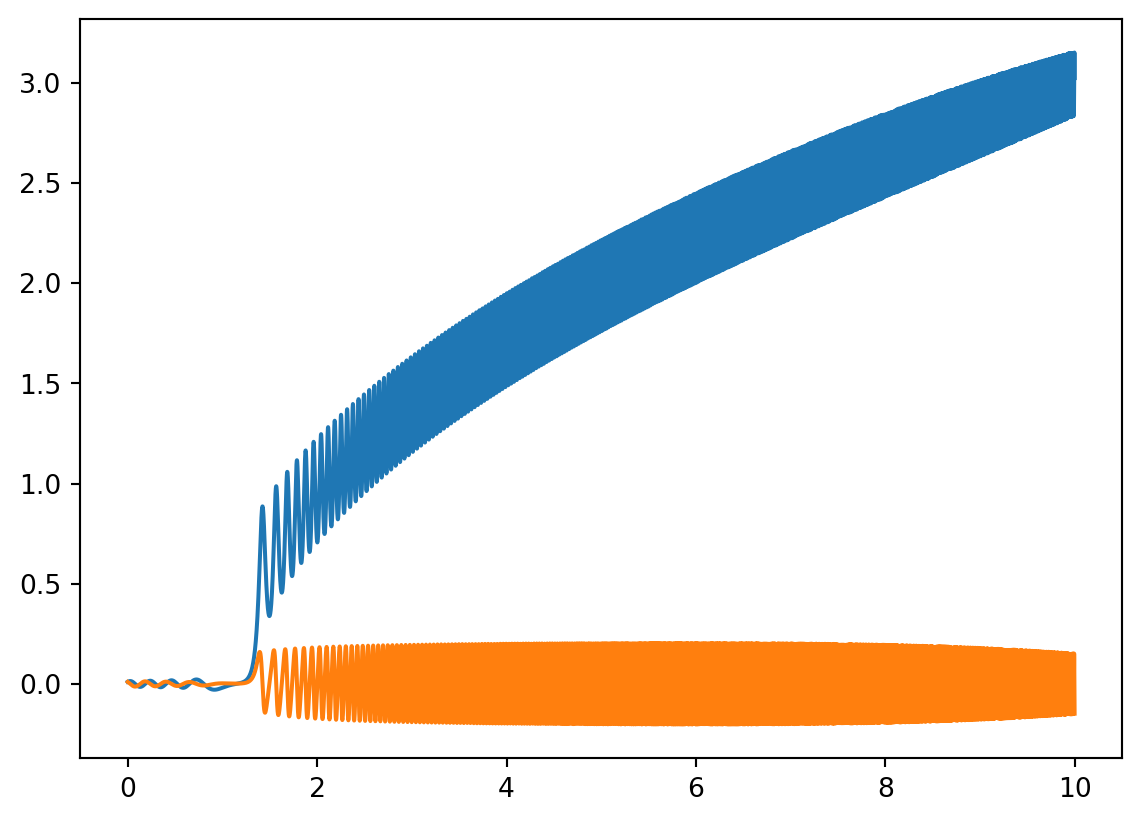
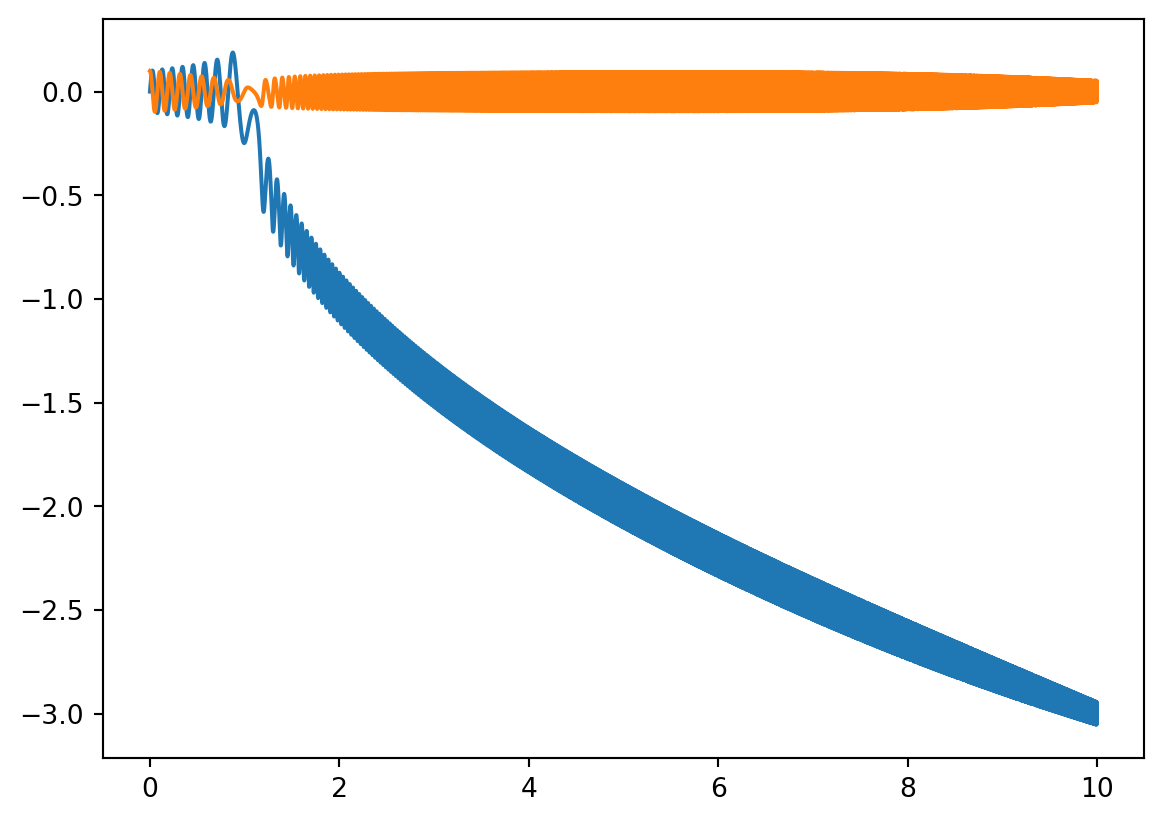
Final Commit for SRIP 2024 before report

diff --git a/BifurcationDiagram/bifurcation.html b/BifurcationDiagram/bifurcation.html
@@ -135,14 +135,14 @@ y&nbsp;̇= x[- ∆ + p - K(x^2 + y^2)]
 \]</span></p>
 <section id="importing-list-of-libraries-in-python" class="level2">
 <h2 class="anchored" data-anchor-id="importing-list-of-libraries-in-python">Importing list of Libraries in Python</h2>
-<div id="ca28dd96" class="cell" data-execution_count="1">
+<div id="628991cc" class="cell" data-execution_count="1">
 <div class="sourceCode cell-code" id="cb1"><pre class="sourceCode python code-with-copy"><code class="sourceCode python"><span id="cb1-1"><a href="#cb1-1" aria-hidden="true" tabindex="-1"></a><span class="im">import</span> numpy <span class="im">as</span> np</span>
 <span id="cb1-2"><a href="#cb1-2" aria-hidden="true" tabindex="-1"></a><span class="im">import</span> matplotlib.pyplot <span class="im">as</span> plt</span></code><button title="Copy to Clipboard" class="code-copy-button"><i class="bi"></i></button></pre></div>
 </div>
 </section>
 <section id="defining-the-start-point" class="level2">
 <h2 class="anchored" data-anchor-id="defining-the-start-point">Defining the start point</h2>
-<div id="f28871ee" class="cell" data-execution_count="2">
+<div id="2aaf8a43" class="cell" data-execution_count="2">
 <div class="sourceCode cell-code" id="cb2"><pre class="sourceCode python code-with-copy"><code class="sourceCode python"><span id="cb2-1"><a href="#cb2-1" aria-hidden="true" tabindex="-1"></a>d <span class="op">=</span> <span class="fl">0.1</span></span>
 <span id="cb2-2"><a href="#cb2-2" aria-hidden="true" tabindex="-1"></a>k <span class="op">=</span> d</span>
 <span id="cb2-3"><a href="#cb2-3" aria-hidden="true" tabindex="-1"></a>p <span class="op">=</span> <span class="fl">1.1</span><span class="op">*</span>d</span>
@@ -163,7 +163,7 @@ y&nbsp;̇= x[- ∆ + p - K(x^2 + y^2)]
 </section>
 <section id="evolution-of-the-system" class="level2">
 <h2 class="anchored" data-anchor-id="evolution-of-the-system">Evolution of the system</h2>
-<div id="2a899710" class="cell" data-execution_count="3">
+<div id="9284a795" class="cell" data-execution_count="3">
 <div class="sourceCode cell-code" id="cb3"><pre class="sourceCode python code-with-copy"><code class="sourceCode python"><span id="cb3-1"><a href="#cb3-1" aria-hidden="true" tabindex="-1"></a><span class="cf">for</span> i <span class="kw">in</span> <span class="bu">range</span>(<span class="dv">1</span>,<span class="bu">len</span>(time)):</span>
 <span id="cb3-2"><a href="#cb3-2" aria-hidden="true" tabindex="-1"></a>  k1 <span class="op">=</span> Differential(x_val[i<span class="op">-</span><span class="dv">1</span>], y_val[i<span class="op">-</span><span class="dv">1</span>])</span>
 <span id="cb3-3"><a href="#cb3-3" aria-hidden="true" tabindex="-1"></a>  x_val[i] <span class="op">=</span> x_val[i<span class="op">-</span><span class="dv">1</span>] <span class="op">+</span> (k1)[<span class="st">"x"</span>]<span class="op">*</span>h</span>
@@ -183,7 +183,7 @@ y&nbsp;̇= x[- ∆ + p - K(x^2 + y^2)]
 </section>
 <section id="stability-analysis" class="level2">
 <h2 class="anchored" data-anchor-id="stability-analysis">Stability Analysis:</h2>
-<div id="f27f4649" class="cell" data-execution_count="4">
+<div id="f020a5fe" class="cell" data-execution_count="4">
 <div class="sourceCode cell-code" id="cb4"><pre class="sourceCode python code-with-copy"><code class="sourceCode python"><span id="cb4-1"><a href="#cb4-1" aria-hidden="true" tabindex="-1"></a><span class="im">import</span> scipy <span class="im">as</span> sc</span>
 <span id="cb4-2"><a href="#cb4-2" aria-hidden="true" tabindex="-1"></a></span>
 <span id="cb4-3"><a href="#cb4-3" aria-hidden="true" tabindex="-1"></a><span class="kw">def</span> DifferentialForm(z):</span>
@@ -205,11 +205,11 @@ y&nbsp;̇= x[- ∆ + p - K(x^2 + y^2)]
 <span id="cb4-19"><a href="#cb4-19" aria-hidden="true" tabindex="-1"></a>axs[<span class="dv">1</span>].scatter(p_vals, x_val)</span>
 <span id="cb4-20"><a href="#cb4-20" aria-hidden="true" tabindex="-1"></a>axs[<span class="dv">0</span>].scatter(p_vals, y_val)</span></code><button title="Copy to Clipboard" class="code-copy-button"><i class="bi"></i></button></pre></div>
 <div class="cell-output cell-output-stderr">
-<pre><code>/var/folders/88/wl5ftm6543l8qjh4j574vxv40000gn/T/ipykernel_25488/1441948047.py:15: RuntimeWarning:
+<pre><code>/var/folders/88/wl5ftm6543l8qjh4j574vxv40000gn/T/ipykernel_57773/1441948047.py:15: RuntimeWarning:
 
 The number of calls to function has reached maxfev = 600.
 
-/var/folders/88/wl5ftm6543l8qjh4j574vxv40000gn/T/ipykernel_25488/1441948047.py:15: RuntimeWarning:
+/var/folders/88/wl5ftm6543l8qjh4j574vxv40000gn/T/ipykernel_57773/1441948047.py:15: RuntimeWarning:
 
 xtol=0.000000 is too small, no further improvement in the approximate
   solution is possible.
@@ -223,46 +223,44 @@ xtol=0.000000 is too small, no further improvement in the approximate
 </div>
 </div>
 </div>
-<div id="8f0a3c41" class="cell" data-execution_count="5">
+<div id="37390dcb" class="cell" data-execution_count="5">
 <div class="sourceCode cell-code" id="cb6"><pre class="sourceCode python code-with-copy"><code class="sourceCode python"><span id="cb6-1"><a href="#cb6-1" aria-hidden="true" tabindex="-1"></a>d <span class="op">=</span> <span class="dv">3</span></span>
 <span id="cb6-2"><a href="#cb6-2" aria-hidden="true" tabindex="-1"></a></span>
 <span id="cb6-3"><a href="#cb6-3" aria-hidden="true" tabindex="-1"></a><span class="kw">def</span> DifferentialFunc(x, y, p, t):</span>
 <span id="cb6-4"><a href="#cb6-4" aria-hidden="true" tabindex="-1"></a>  x_dot <span class="op">=</span> y<span class="op">*</span>(d <span class="op">+</span> p<span class="op">*</span>d <span class="op">+</span> d<span class="op">*</span>(x<span class="op">**</span><span class="dv">2</span> <span class="op">+</span> y<span class="op">**</span><span class="dv">2</span>))</span>
 <span id="cb6-5"><a href="#cb6-5" aria-hidden="true" tabindex="-1"></a>  y_dot <span class="op">=</span> x<span class="op">*</span>(<span class="op">-</span>d <span class="op">+</span> p<span class="op">*</span>d <span class="op">-</span> d<span class="op">*</span>(x<span class="op">**</span><span class="dv">2</span> <span class="op">+</span> y<span class="op">**</span><span class="dv">2</span>))</span>
-<span id="cb6-6"><a href="#cb6-6" aria-hidden="true" tabindex="-1"></a>  p_dot <span class="op">=</span> <span class="fl">0.1</span></span>
+<span id="cb6-6"><a href="#cb6-6" aria-hidden="true" tabindex="-1"></a>  p_dot <span class="op">=</span> <span class="fl">0.05</span></span>
 <span id="cb6-7"><a href="#cb6-7" aria-hidden="true" tabindex="-1"></a>  <span class="cf">return</span> {<span class="st">"q1"</span>:x_dot, <span class="st">"q2"</span>:y_dot, <span class="st">"q3"</span>:p_dot}</span>
 <span id="cb6-8"><a href="#cb6-8" aria-hidden="true" tabindex="-1"></a></span>
-<span id="cb6-9"><a href="#cb6-9" aria-hidden="true" tabindex="-1"></a>p_val <span class="op">=</span> np.arange(<span class="dv">0</span>,<span class="dv">5</span>,<span class="fl">0.01</span>)</span>
-<span id="cb6-10"><a href="#cb6-10" aria-hidden="true" tabindex="-1"></a>h <span class="op">=</span> <span class="fl">0.01</span></span>
-<span id="cb6-11"><a href="#cb6-11" aria-hidden="true" tabindex="-1"></a>t_val <span class="op">=</span> np.arange(<span class="dv">0</span>,<span class="dv">100</span>,h)</span>
+<span id="cb6-9"><a href="#cb6-9" aria-hidden="true" tabindex="-1"></a>h <span class="op">=</span> <span class="fl">0.01</span></span>
+<span id="cb6-10"><a href="#cb6-10" aria-hidden="true" tabindex="-1"></a>t_val <span class="op">=</span> np.arange(<span class="dv">0</span>,<span class="dv">200</span>,h)</span>
+<span id="cb6-11"><a href="#cb6-11" aria-hidden="true" tabindex="-1"></a></span>
 <span id="cb6-12"><a href="#cb6-12" aria-hidden="true" tabindex="-1"></a></span>
-<span id="cb6-13"><a href="#cb6-13" aria-hidden="true" tabindex="-1"></a></span>
-<span id="cb6-14"><a href="#cb6-14" aria-hidden="true" tabindex="-1"></a><span class="kw">def</span> SimulatedFuncValues(x_values, h, q1_0, q2_0, q3_0, differential):</span>
-<span id="cb6-15"><a href="#cb6-15" aria-hidden="true" tabindex="-1"></a>    q1_val <span class="op">=</span> np.zeros_like(x_values)</span>
-<span id="cb6-16"><a href="#cb6-16" aria-hidden="true" tabindex="-1"></a>    q2_val <span class="op">=</span> np.zeros_like(x_values)</span>
-<span id="cb6-17"><a href="#cb6-17" aria-hidden="true" tabindex="-1"></a>    q3_val <span class="op">=</span> np.zeros_like(x_values)</span>
-<span id="cb6-18"><a href="#cb6-18" aria-hidden="true" tabindex="-1"></a>    </span>
-<span id="cb6-19"><a href="#cb6-19" aria-hidden="true" tabindex="-1"></a>    q1_val[<span class="dv">0</span>] <span class="op">=</span> q1_0</span>
-<span id="cb6-20"><a href="#cb6-20" aria-hidden="true" tabindex="-1"></a>    q2_val[<span class="dv">0</span>] <span class="op">=</span> q2_0</span>
-<span id="cb6-21"><a href="#cb6-21" aria-hidden="true" tabindex="-1"></a>    q3_val[<span class="dv">0</span>] <span class="op">=</span> q3_0</span>
-<span id="cb6-22"><a href="#cb6-22" aria-hidden="true" tabindex="-1"></a>    <span class="cf">for</span> i <span class="kw">in</span> <span class="bu">range</span>(<span class="dv">1</span>, <span class="bu">len</span>(x_values)):</span>
-<span id="cb6-23"><a href="#cb6-23" aria-hidden="true" tabindex="-1"></a>        k1 <span class="op">=</span> differential(q1_val[i<span class="op">-</span><span class="dv">1</span>], q2_val[i<span class="op">-</span><span class="dv">1</span>], q3_val[i<span class="op">-</span><span class="dv">1</span>], x_values[i<span class="op">-</span><span class="dv">1</span>])</span>
-<span id="cb6-24"><a href="#cb6-24" aria-hidden="true" tabindex="-1"></a>        k2 <span class="op">=</span> differential(q1_val[i<span class="op">-</span><span class="dv">1</span>] <span class="op">+</span> (h<span class="op">/</span><span class="dv">2</span>)<span class="op">*</span>k1[<span class="st">"q1"</span>] , q2_val[i<span class="op">-</span><span class="dv">1</span>] <span class="op">+</span> (h<span class="op">/</span><span class="dv">2</span>)<span class="op">*</span>k1[<span class="st">"q2"</span>], q3_val[i<span class="op">-</span><span class="dv">1</span>] <span class="op">+</span> (h<span class="op">/</span><span class="dv">2</span>)<span class="op">*</span>k1[<span class="st">"q3"</span>], x_values[i<span class="op">-</span><span class="dv">1</span>]<span class="op">+</span>(h<span class="op">/</span><span class="dv">2</span>))</span>
-<span id="cb6-25"><a href="#cb6-25" aria-hidden="true" tabindex="-1"></a>        k3 <span class="op">=</span> differential(q1_val[i<span class="op">-</span><span class="dv">1</span>] <span class="op">+</span> (h<span class="op">/</span><span class="dv">2</span>)<span class="op">*</span>k2[<span class="st">"q1"</span>], q2_val[i<span class="op">-</span><span class="dv">1</span>] <span class="op">+</span> (h<span class="op">/</span><span class="dv">2</span>)<span class="op">*</span>k2[<span class="st">"q2"</span>], q3_val[i<span class="op">-</span><span class="dv">1</span>] <span class="op">+</span> (h<span class="op">/</span><span class="dv">2</span>)<span class="op">*</span>k2[<span class="st">"q3"</span>],x_values[i<span class="op">-</span><span class="dv">1</span>]<span class="op">+</span>(h<span class="op">/</span><span class="dv">2</span>))</span>
-<span id="cb6-26"><a href="#cb6-26" aria-hidden="true" tabindex="-1"></a>        k4 <span class="op">=</span> differential(q1_val[i<span class="op">-</span><span class="dv">1</span>] <span class="op">+</span> h<span class="op">*</span>k3[<span class="st">"q1"</span>] , q2_val[i<span class="op">-</span><span class="dv">1</span>] <span class="op">+</span> (h)<span class="op">*</span>k3[<span class="st">"q2"</span>], q3_val[i<span class="op">-</span><span class="dv">1</span>]<span class="op">+</span>h<span class="op">*</span>k3[<span class="st">"q3"</span>], x_values[i<span class="op">-</span><span class="dv">1</span>]<span class="op">+</span>h)</span>
-<span id="cb6-27"><a href="#cb6-27" aria-hidden="true" tabindex="-1"></a>        q1_val[i] <span class="op">=</span> q1_val[i<span class="op">-</span><span class="dv">1</span>] <span class="op">+</span> ((k1[<span class="st">"q1"</span>] <span class="op">+</span> <span class="dv">2</span><span class="op">*</span>k2[<span class="st">"q1"</span>] <span class="op">+</span> <span class="dv">2</span><span class="op">*</span>k3[<span class="st">"q1"</span>] <span class="op">+</span> k4[<span class="st">"q1"</span>])<span class="op">/</span><span class="dv">6</span>)<span class="op">*</span>h</span>
-<span id="cb6-28"><a href="#cb6-28" aria-hidden="true" tabindex="-1"></a>        q2_val[i] <span class="op">=</span> q2_val[i<span class="op">-</span><span class="dv">1</span>] <span class="op">+</span> ((k1[<span class="st">"q2"</span>] <span class="op">+</span> <span class="dv">2</span><span class="op">*</span>k2[<span class="st">"q2"</span>] <span class="op">+</span> <span class="dv">2</span><span class="op">*</span>k3[<span class="st">"q2"</span>] <span class="op">+</span> k4[<span class="st">"q2"</span>])<span class="op">/</span><span class="dv">6</span>)<span class="op">*</span>h</span>
-<span id="cb6-29"><a href="#cb6-29" aria-hidden="true" tabindex="-1"></a>        q3_val[i] <span class="op">=</span> q3_val[i<span class="op">-</span><span class="dv">1</span>] <span class="op">+</span> ((k1[<span class="st">"q3"</span>] <span class="op">+</span> <span class="dv">2</span><span class="op">*</span>k2[<span class="st">"q3"</span>] <span class="op">+</span> <span class="dv">2</span><span class="op">*</span>k3[<span class="st">"q3"</span>] <span class="op">+</span> k4[<span class="st">"q3"</span>])<span class="op">/</span><span class="dv">6</span>)<span class="op">*</span>h</span>
-<span id="cb6-30"><a href="#cb6-30" aria-hidden="true" tabindex="-1"></a>    <span class="cf">return</span> (q1_val, q2_val, q3_val)</span>
+<span id="cb6-13"><a href="#cb6-13" aria-hidden="true" tabindex="-1"></a><span class="kw">def</span> SimulatedFuncValues(x_values, h, q1_0, q2_0, q3_0, differential):</span>
+<span id="cb6-14"><a href="#cb6-14" aria-hidden="true" tabindex="-1"></a>    q1_val <span class="op">=</span> np.zeros_like(x_values)</span>
+<span id="cb6-15"><a href="#cb6-15" aria-hidden="true" tabindex="-1"></a>    q2_val <span class="op">=</span> np.zeros_like(x_values)</span>
+<span id="cb6-16"><a href="#cb6-16" aria-hidden="true" tabindex="-1"></a>    q3_val <span class="op">=</span> np.zeros_like(x_values)</span>
+<span id="cb6-17"><a href="#cb6-17" aria-hidden="true" tabindex="-1"></a>    q1_val[<span class="dv">0</span>] <span class="op">=</span> q1_0</span>
+<span id="cb6-18"><a href="#cb6-18" aria-hidden="true" tabindex="-1"></a>    q2_val[<span class="dv">0</span>] <span class="op">=</span> q2_0</span>
+<span id="cb6-19"><a href="#cb6-19" aria-hidden="true" tabindex="-1"></a>    q3_val[<span class="dv">0</span>] <span class="op">=</span> q3_0</span>
+<span id="cb6-20"><a href="#cb6-20" aria-hidden="true" tabindex="-1"></a>    <span class="cf">for</span> i <span class="kw">in</span> <span class="bu">range</span>(<span class="dv">1</span>, <span class="bu">len</span>(x_values)):</span>
+<span id="cb6-21"><a href="#cb6-21" aria-hidden="true" tabindex="-1"></a>        k1 <span class="op">=</span> differential(q1_val[i<span class="op">-</span><span class="dv">1</span>], q2_val[i<span class="op">-</span><span class="dv">1</span>], q3_val[i<span class="op">-</span><span class="dv">1</span>], x_values[i<span class="op">-</span><span class="dv">1</span>])</span>
+<span id="cb6-22"><a href="#cb6-22" aria-hidden="true" tabindex="-1"></a>        k2 <span class="op">=</span> differential(q1_val[i<span class="op">-</span><span class="dv">1</span>] <span class="op">+</span> (h<span class="op">/</span><span class="dv">2</span>)<span class="op">*</span>k1[<span class="st">"q1"</span>] , q2_val[i<span class="op">-</span><span class="dv">1</span>] <span class="op">+</span> (h<span class="op">/</span><span class="dv">2</span>)<span class="op">*</span>k1[<span class="st">"q2"</span>], q3_val[i<span class="op">-</span><span class="dv">1</span>] <span class="op">+</span> (h<span class="op">/</span><span class="dv">2</span>)<span class="op">*</span>k1[<span class="st">"q3"</span>], x_values[i<span class="op">-</span><span class="dv">1</span>]<span class="op">+</span>(h<span class="op">/</span><span class="dv">2</span>))</span>
+<span id="cb6-23"><a href="#cb6-23" aria-hidden="true" tabindex="-1"></a>        k3 <span class="op">=</span> differential(q1_val[i<span class="op">-</span><span class="dv">1</span>] <span class="op">+</span> (h<span class="op">/</span><span class="dv">2</span>)<span class="op">*</span>k2[<span class="st">"q1"</span>], q2_val[i<span class="op">-</span><span class="dv">1</span>] <span class="op">+</span> (h<span class="op">/</span><span class="dv">2</span>)<span class="op">*</span>k2[<span class="st">"q2"</span>], q3_val[i<span class="op">-</span><span class="dv">1</span>] <span class="op">+</span> (h<span class="op">/</span><span class="dv">2</span>)<span class="op">*</span>k2[<span class="st">"q3"</span>],x_values[i<span class="op">-</span><span class="dv">1</span>]<span class="op">+</span>(h<span class="op">/</span><span class="dv">2</span>))</span>
+<span id="cb6-24"><a href="#cb6-24" aria-hidden="true" tabindex="-1"></a>        k4 <span class="op">=</span> differential(q1_val[i<span class="op">-</span><span class="dv">1</span>] <span class="op">+</span> h<span class="op">*</span>k3[<span class="st">"q1"</span>] , q2_val[i<span class="op">-</span><span class="dv">1</span>] <span class="op">+</span> (h)<span class="op">*</span>k3[<span class="st">"q2"</span>], q3_val[i<span class="op">-</span><span class="dv">1</span>]<span class="op">+</span>h<span class="op">*</span>k3[<span class="st">"q3"</span>], x_values[i<span class="op">-</span><span class="dv">1</span>]<span class="op">+</span>h)</span>
+<span id="cb6-25"><a href="#cb6-25" aria-hidden="true" tabindex="-1"></a>        q1_val[i] <span class="op">=</span> q1_val[i<span class="op">-</span><span class="dv">1</span>] <span class="op">+</span> ((k1[<span class="st">"q1"</span>] <span class="op">+</span> <span class="dv">2</span><span class="op">*</span>k2[<span class="st">"q1"</span>] <span class="op">+</span> <span class="dv">2</span><span class="op">*</span>k3[<span class="st">"q1"</span>] <span class="op">+</span> k4[<span class="st">"q1"</span>])<span class="op">/</span><span class="dv">6</span>)<span class="op">*</span>h</span>
+<span id="cb6-26"><a href="#cb6-26" aria-hidden="true" tabindex="-1"></a>        q2_val[i] <span class="op">=</span> q2_val[i<span class="op">-</span><span class="dv">1</span>] <span class="op">+</span> ((k1[<span class="st">"q2"</span>] <span class="op">+</span> <span class="dv">2</span><span class="op">*</span>k2[<span class="st">"q2"</span>] <span class="op">+</span> <span class="dv">2</span><span class="op">*</span>k3[<span class="st">"q2"</span>] <span class="op">+</span> k4[<span class="st">"q2"</span>])<span class="op">/</span><span class="dv">6</span>)<span class="op">*</span>h</span>
+<span id="cb6-27"><a href="#cb6-27" aria-hidden="true" tabindex="-1"></a>        q3_val[i] <span class="op">=</span> q3_val[i<span class="op">-</span><span class="dv">1</span>] <span class="op">+</span> ((k1[<span class="st">"q3"</span>] <span class="op">+</span> <span class="dv">2</span><span class="op">*</span>k2[<span class="st">"q3"</span>] <span class="op">+</span> <span class="dv">2</span><span class="op">*</span>k3[<span class="st">"q3"</span>] <span class="op">+</span> k4[<span class="st">"q3"</span>])<span class="op">/</span><span class="dv">6</span>)<span class="op">*</span>h</span>
+<span id="cb6-28"><a href="#cb6-28" aria-hidden="true" tabindex="-1"></a>    <span class="cf">return</span> (q1_val, q2_val, q3_val)</span>
+<span id="cb6-29"><a href="#cb6-29" aria-hidden="true" tabindex="-1"></a></span>
+<span id="cb6-30"><a href="#cb6-30" aria-hidden="true" tabindex="-1"></a>x_val, y_val, p_val <span class="op">=</span> SimulatedFuncValues(x_values<span class="op">=</span>t_val, h<span class="op">=</span><span class="fl">0.01</span>, q1_0<span class="op">=</span><span class="fl">0.0</span>, q2_0<span class="op">=</span><span class="fl">0.1</span>, q3_0<span class="op">=</span><span class="dv">0</span>, differential<span class="op">=</span>DifferentialFunc)</span>
 <span id="cb6-31"><a href="#cb6-31" aria-hidden="true" tabindex="-1"></a></span>
-<span id="cb6-32"><a href="#cb6-32" aria-hidden="true" tabindex="-1"></a>x_val, y_val, p_val <span class="op">=</span> SimulatedFuncValues(x_values<span class="op">=</span>t_val, h<span class="op">=</span><span class="fl">0.01</span>, q1_0<span class="op">=</span><span class="fl">0.01</span>, q2_0<span class="op">=</span><span class="fl">0.01</span>, q3_0<span class="op">=</span><span class="dv">0</span>, differential<span class="op">=</span>DifferentialFunc)</span>
-<span id="cb6-33"><a href="#cb6-33" aria-hidden="true" tabindex="-1"></a></span>
-<span id="cb6-34"><a href="#cb6-34" aria-hidden="true" tabindex="-1"></a>plt.plot( p_val, x_val)</span>
-<span id="cb6-35"><a href="#cb6-35" aria-hidden="true" tabindex="-1"></a>plt.plot( p_val, y_val)</span></code><button title="Copy to Clipboard" class="code-copy-button"><i class="bi"></i></button></pre></div>
+<span id="cb6-32"><a href="#cb6-32" aria-hidden="true" tabindex="-1"></a>plt.plot( p_val, x_val)</span>
+<span id="cb6-33"><a href="#cb6-33" aria-hidden="true" tabindex="-1"></a>plt.plot( p_val, y_val)</span></code><button title="Copy to Clipboard" class="code-copy-button"><i class="bi"></i></button></pre></div>
 <div class="cell-output cell-output-display">
 <div>
 <figure class="figure">
-<p><img src="bifurcation_files/figure-html/cell-6-output-1.png" width="571" height="411" class="figure-img"></p>
+<p><img src="bifurcation_files/figure-html/cell-6-output-1.png" width="582" height="411" class="figure-img"></p>
 </figure>
 </div>
 </div>
